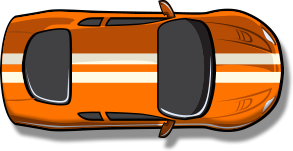
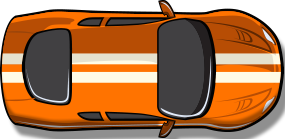
Update animation final

diff --git a/Source/vehicleSprite.py b/Source/vehicleSprite.py
@@ -1,4 +1,5 @@
 import pygame
+import math
 from vehicle import Vehicle
 
 # VehicleSprite handles rendering a vehicle image on the screen based on its state
@@ -25,7 +26,21 @@ class VehicleSprite:
         
         screen.blit(self.image, (x, y))  # Draw the vehicle image at computed position
 
+        # Draw an outline around the vehicle if it is the main vehicle
+        if self.vehicle.id == "#":
+            # Pulse effect for the outline color
+            pulse = 128 + 127 * math.sin(pygame.time.get_ticks() * 0.005)
+            outline_color = (255, 255, pulse)
+
+            # Create a rectangle for the outline, slightly larger than the vehicle image
+            rect = pygame.Rect(x, y, self.image.get_width(), self.image.get_height())
+
+            pygame.draw.rect(screen, outline_color, rect.inflate(8, 8), 3)
+
     # Update the internal position based on a new Vehicle object (used during animation)
     def update(self, vehicle: Vehicle):
         self.vehicle.x = vehicle.x
         self.vehicle.y = vehicle.y
+    
+    def update_x_to_move(self, move):
+        self.vehicle.x += move

diff --git a/Source/boardRenderer.py b/Source/boardRenderer.py
@@ -54,3 +54,20 @@ class BoardRenderer:
 
         # Replace the current sprite list with the updated one
         self.vehicle_sprites = new_vehicle_sprites
+    
+    def update_main_vehicle_final_animation(self, gameboard, final_move):
+        # Create a lookup dictionary of current sprites by vehicle ID
+        sprite_dict = {sprite.vehicle.id: sprite for sprite in self.vehicle_sprites}
+        new_vehicle_sprites = []
+
+        for vehicle in gameboard.vehicles:
+            if vehicle.id in sprite_dict:
+                sprite = sprite_dict[vehicle.id]
+                if vehicle.id == "#":
+                    sprite.update_x_to_move(final_move)
+                # If vehicle already exists, update its position
+                sprite = sprite_dict[vehicle.id]
+                new_vehicle_sprites.append(sprite)
+
+        # Replace the current sprite list with the updated one
+        self.vehicle_sprites = new_vehicle_sprites

diff --git a/Source/main.py b/Source/main.py
@@ -46,6 +46,8 @@ show_algo_selector = False
 board_renderer = None
 list_boardgame = []
 current_step_index = 0
+#
+final_move = 1
 
 # Toggle pause/resume and update icon
 def toggle_pause():
@@ -230,6 +232,13 @@ if __name__ == "__main__":
                     board_renderer.update(list_boardgame[current_step_index])
                     current_step_index += 1
                     pygame.time.delay(250)
+                else:
+                    if final_move < 6:
+                        board_renderer.update_main_vehicle_final_animation(list_boardgame[current_step_index - 1], final_move)
+                        final_move += 1
+                        pygame.time.delay(100)
+                    else:
+                        final_move = 1
 
             # Always draw current board state and controls
             board_renderer.draw(SCREEN)
